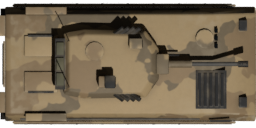
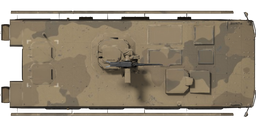
VIS-01: redraw seven enemy sprites from the new battle models
The sprites in art/enemies are the ground shadow and the whole unit on the
low graphics preset; they still showed the old silhouettes after #383.
Rendered top-down with plane_sprite.py from models/battle/fh_battle_e_*.glb:
e_zsu, e_convoy_truck/ifv/scout/technical, e_helicopter, e_interceptor.

No gameplay change: widths stay 256 px (interceptor 150 px), so the model
scale (Render3D._ensure scales by sprite width) and unit lengths are as
before; hitboxes are fixed radii in the enemy scripts and never read the
sprite. Heights stay as before except e_zsu (96 -> 126 px), because the new
ZSU is wider than the old canvas; only the shadow quad and low-preset relief
use the height.

plane_sprite.py: --height keeps the old canvas when the model fits;
--hub cuts a rotor down to its hub, so the helicopter sprite has no static
blades where the game draws the RotorBlur disc. Enemy recipes in the header.

Claude-Session: https://claude.ai/code/session_01NJXKdwtwpw6x1yWAthQg3U

diff --git a/game/tools/blender/plane_sprite.py b/game/tools/blender/plane_sprite.py
@@ -11,8 +11,23 @@ centre, nose to the right (+X), transparent background. The sprite is also the p
 Look like the other sprites in art/planes: soft top light from the front left, a slightly darker rim instead of an outline.
 Rendered at SS× in Cycles (CPU), downscaled with Lanczos on premultiplied alpha.
 
+Enemy sprites (art/enemies/e_<name>.png, VIS-01, Kanta 24.10) use the same renderer from the battle models
+(models/battle/fh_battle_e_<name>.glb). Enemy scripts give the unit length in game pixels and Render3D scales the model
+by the sprite width, so the old width is kept; hitboxes are fixed radii in the scripts and never read the sprite.
+--height keeps the old canvas height when the model fits in it (the shadow quad and the low-preset relief keep their
+proportions); a model wider than that canvas grows it instead of being clipped. --hub cuts a spinning part down to its
+hub: the helicopter's blades are drawn in battle as a blur disc (RotorBlur), so the sprite (= ground shadow, and the
+whole helicopter on «Низкое», as before) shows no static blades.
+
 Run (bpy 5.x as a module): python3 -I plane_sprite.py <model.glb> <width px> <out.png> [--ss=4] [--samples=64]
+    [--height=<px>] [--hub=<mesh name>:<radius>]...
   e.g. python3 -I game/tools/blender/plane_sprite.py game/models/hangar/fh_hangar_fighter_1.glb 170 game/art/planes/fighter_1.png
+  enemies (width = old sprite width, --height = old sprite height):
+    B=game/models/battle; E=game/art/enemies; S="python3 -I game/tools/blender/plane_sprite.py"
+    $S $B/fh_battle_e_zsu.glb 256 $E/e_zsu.png --height=96
+    for k in truck ifv scout technical; do $S $B/fh_battle_e_convoy_$k.glb 256 $E/e_convoy_$k.png --height=128; done
+    $S $B/fh_battle_e_helicopter.glb 256 $E/e_helicopter.png --height=128 --hub=rotor:0.05 --hub=tail_rotor:0.03
+    $S $B/fh_battle_e_interceptor.glb 150 $E/e_interceptor.png --height=125
 """
 
 import argparse
@@ -32,6 +47,21 @@ def scene_bounds(obs: list) -> tuple:
     """World-space (min, max) of mesh objects."""
     vs = [o.matrix_world @ v.co for o in obs for v in o.data.vertices]
     return Vector(map(min, *vs)), Vector(map(max, *vs))
+
+
+def cut_to_hub(ob: "bpy.types.Object", radius: float) -> None:
+    """Delete the vertices of `ob` farther than `radius` (model lengths) from its origin: the blades of a rotor whose
+    origin is the hub, the way RotorBlur cuts them in battle (Render3D.ROTOR_HUB / TAIL_HUB)."""
+    import bmesh  # exists only once bpy is loaded, so not at the top (isort would put it first)
+
+    bm = bmesh.new()
+    bm.from_mesh(ob.data)
+    m = ob.matrix_world
+    o = m.translation
+    far = [v for v in bm.verts if (m @ v.co - o).length > radius]
+    bmesh.ops.delete(bm, geom=far, context="VERTS")
+    bm.to_mesh(ob.data)
+    bm.free()
 
 
 def setup_light(sc: "bpy.types.Scene") -> None:
@@ -62,12 +92,31 @@ def main() -> int:
     ap.add_argument("out")
     ap.add_argument("--ss", type=int, default=4)
     ap.add_argument("--samples", type=int, default=64)
+    ap.add_argument(
+        "--height",
+        type=int,
+        default=0,
+        help="canvas height px (kept if the model fits)",
+    )
+    ap.add_argument(
+        "--hub",
+        action="append",
+        default=[],
+        help="<mesh>:<radius>: keep only the hub of a rotor (repeatable)",
+    )
     a = ap.parse_args(
         sys.argv[sys.argv.index("--") + 1 :] if "--" in sys.argv else sys.argv[1:]
     )
     bpy.ops.wm.read_factory_settings(use_empty=True)
     bpy.ops.import_scene.gltf(filepath=os.path.abspath(a.glb))
     obs = [o for o in bpy.context.scene.objects if o.type == "MESH"]
+    for spec in a.hub:
+        name, r = spec.rsplit(":", 1)
+        hub = [o for o in obs if o.name == name]
+        if not hub:
+            print(f"no mesh {name!r} in {a.glb}")
+            return 1
+        cut_to_hub(hub[0], float(r))
     lo, hi = scene_bounds(obs)
     # the model is centred on its origin by the pipelines; the sprite centre is the origin, so the half span is the
     # larger side (keeps shape_info's |row - h/2| symmetric)
@@ -78,6 +127,13 @@ def main() -> int:
         (h - w) % 2
     ):  # same parity as the width: the centre falls on the same pixel grid in both axes
         h += 1
+    if a.height:
+        if a.height >= h:
+            h = a.height
+        else:
+            print(
+                f"model span {h} px does not fit --height={a.height}: canvas grows to {h}"
+            )
     sc = bpy.context.scene
     sc.render.engine = "CYCLES"
     sc.cycles.device = "CPU"
@@ -92,9 +148,8 @@ def main() -> int:
     sc.view_settings.view_transform = "Standard"
     cam = bpy.data.cameras.new("cam")
     cam.type = "ORTHO"
-    cam.ortho_scale = (
-        1.0  # the wider image side (the width) covers exactly 1 model length
-    )
+    # ortho_scale spans the wider image side; the width must cover exactly 1 model length
+    cam.ortho_scale = max(w, h) / w
     co = bpy.data.objects.new("cam", cam)
     co.location = (0.0, 0.0, 5.0)
     co.rotation_euler = (
